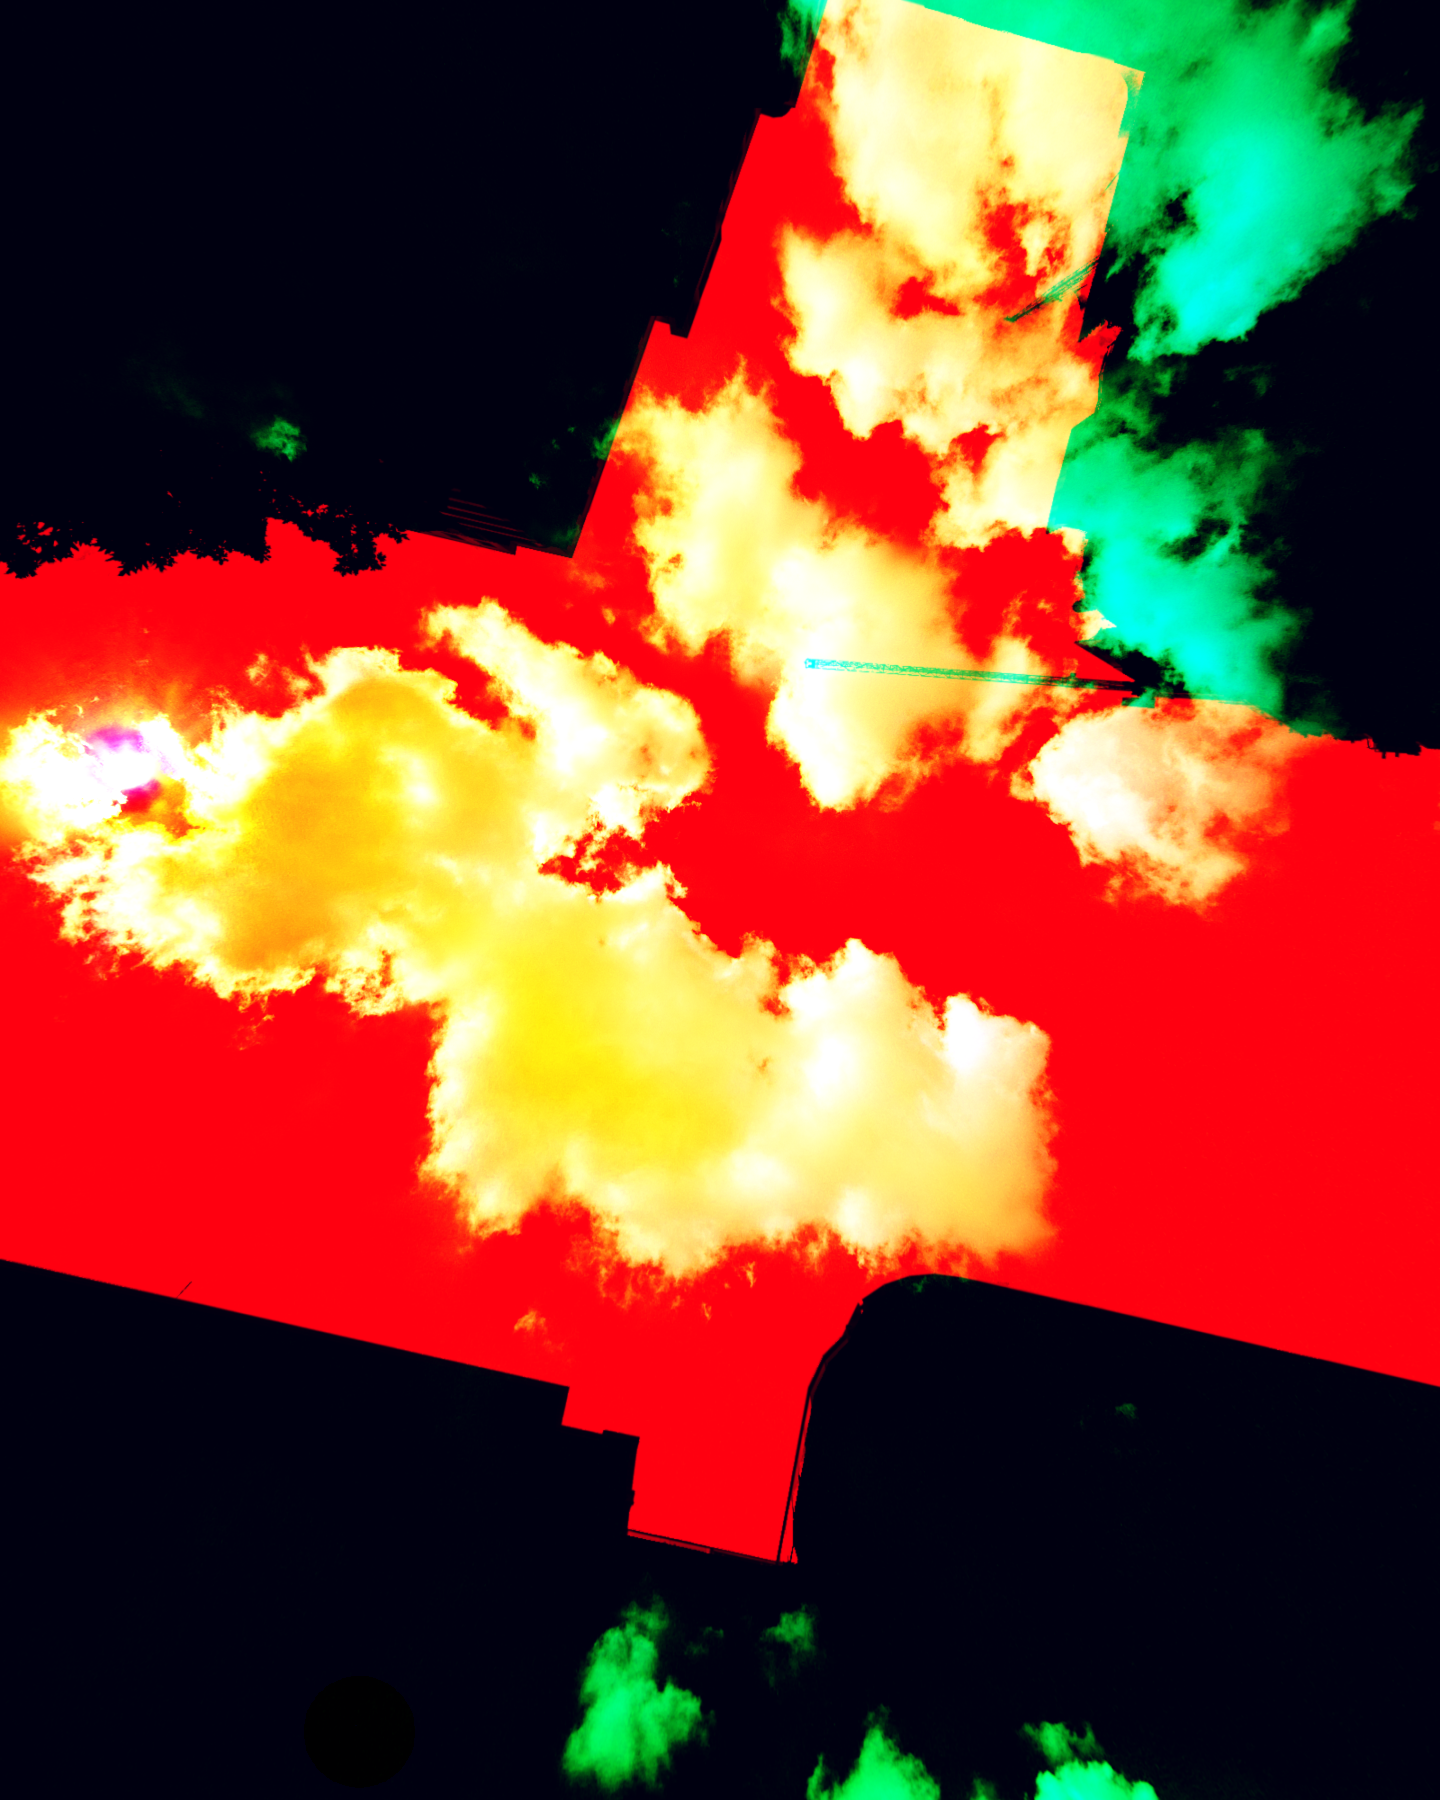
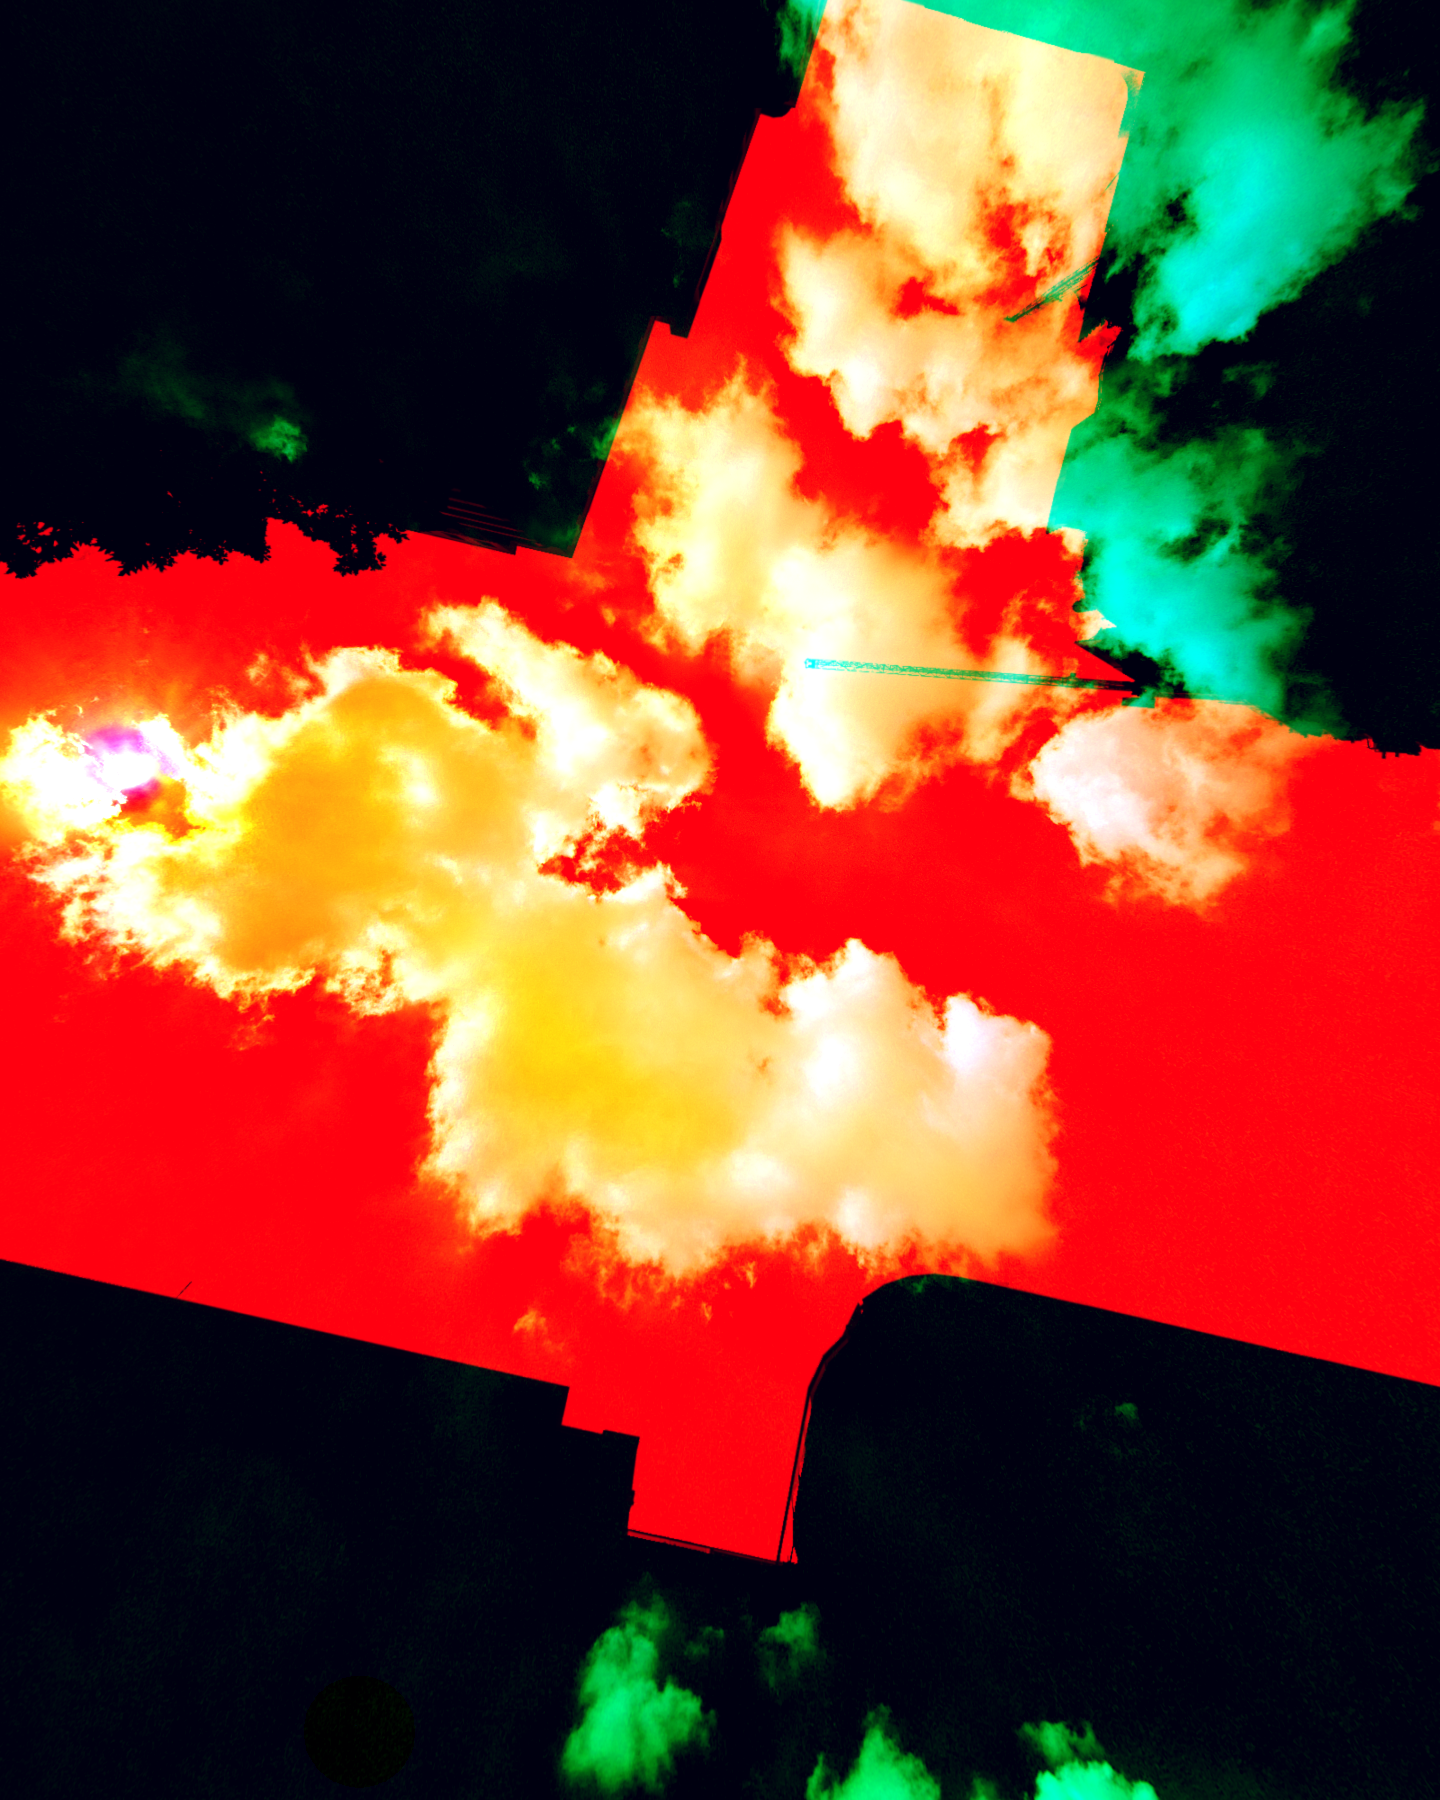
Lab: climb blue-hour round 2
Claude-Session: https://claude.ai/code/session_01RqENhngNCzDFmJWDZueXGV

diff --git a/src/app/lab/blue-hour/blueHourEngine.js b/src/app/lab/blue-hour/blueHourEngine.js
@@ -10,7 +10,7 @@ import { createFilm, FILM_DEFAULTS, FILM_PRESETS } from "../_kit/film";
 // twenty minutes after sunset run: the skylight falls about three and a half
 // stops while the shaft deepens from pale peach-cyan to cobalt, darkest
 // overhead, the clouds lose the sun on their own, faster curve (peach-white
-// to a dim rose-grey under the sky), the camera opens up as a photographer
+// to a deep slate-blue under the sky), the camera opens up as a photographer
 // would, and the lamp trips
 // on its photocell and warms slowly from pink to amber. All of it is
 // developed through _kit/film with its dusk preset easing into night, so the
@@ -105,7 +105,7 @@ uniform float uKnee;        // stops of lift kept linear
 uniform float uShoulder;    // and the most any pixel may reach
 uniform float uCloudKeep;   // how much skylight colour the cloud keeps (0..1)
 uniform float uCloudCeil;   // the brightest a cloud may print, scene units before uExpo
-uniform vec3 uCloudWhite;   // lit cloud, luminance 1: peach-white to rose-grey
+uniform vec3 uCloudWhite;   // lit tops, luminance 1: peach-white to a faint warm grey
 uniform vec3 uCloudPeach;   // afterglow on the undersides, luminance 1
 uniform float uAfter;       // afterglow left, 1 at sunset, 0 by mid-span
 uniform float uFgGain;      // building layer: linear gain (0.42, about 1.25 stops down)
@@ -121,25 +121,14 @@ const float FG_MID = 0.06;  // the plate's median facade luminance
 // aux.b above the light ids holds the cloud's light, 16..255 -> 0..1
 float lightOf(float b){ return clamp((b * 255.0 - 16.0) / 239.0, 0.0, 1.0); }
 // Cloud density for reading form: cover, heavier where the cloud is bright.
-float denAt(vec2 t){ vec4 x = texture(uAux, t); return x.g * (0.5 + 0.5 * lightOf(x.b)); }
-// World view direction of a plate uv.
-vec3 dirAt(vec2 t){
-  vec2 q = t * uTexSize - 0.5 * uTexSize + vec2(0.0, uShift);
-  float r = length(q) + 1e-6;
-  float th = uK * atan(r / (uK * uF));
-  return uRot * vec3(q / r * sin(th), cos(th));
-}
-float facingAt(vec2 t){
-  vec3 d = dirAt(t);
-  return dot(normalize(vec2(d.x, d.z) + 1e-5), uSun);
-}
+float denAt(vec2 t){ vec4 x = textureLod(uAux, t, 1.5); return x.g * (0.5 + 0.5 * lightOf(x.b)); }
 
 void main(){
   vec2 p = gl_FragCoord.xy / uSize;
   vec2 uv = vec2(p.x, 1.0 - p.y);
   vec3 amb = textureLod(uAmb, uv, uLod).rgb;
   vec3 em = textureLod(uEmit, uv, uLod).rgb;
-  vec4 ax = texture(uAux, uv);
+  vec4 ax = textureLod(uAux, uv, 0.0);
   float a = ax.r;
   float cov = ax.g;
   float li = lightOf(ax.b);
@@ -175,40 +164,65 @@ void main(){
   // sky-only panorama through this same view (clouds.py), so the gaps between
   // puffs are clean sky and the zenith deepens by the gradient above alone,
   // with no patch, seam or pole pinch left in the layer to draw spokes.
-  // Sun side on screen: the gradient of the bearing term, in plate uv
-  // (analytic per pixel, so it does not step in 2x2 blocks).
-  vec2 tx = 4.0 / uTexSize;
-  vec2 fd = vec2(facingAt(uv + vec2(tx.x, 0.0)) - facingAt(uv - vec2(tx.x, 0.0)),
-                 facingAt(uv + vec2(0.0, tx.y)) - facingAt(uv - vec2(0.0, tx.y)));
-  vec2 sd = fd / (length(fd) + 1e-6) / uTexSize;
+  // Sun side on screen: a small step of this pixel's ray along the great
+  // circle towards the set sun, projected back onto the plate, in plate uv.
+  // (The gradient of the bearing term it replaces vanishes and flips along
+  // the sun's meridian, which cut a straight lit/lee seam through a puff.)
+  vec3 sunW = normalize(vec3(uSun.x, 0.06, uSun.y));
+  vec3 dc2 = normalize(d + 0.03 * sunW) * uRot;
+  float th2 = acos(clamp(dc2.z, -1.0, 1.0));
+  vec2 q2 = dc2.xy / (length(dc2.xy) + 1e-6) * uK * uF * tan(th2 / uK);
+  vec2 sd = normalize(q2 - q + 1e-6) / uTexSize;
   // A puff's sun-facing flank (light falling off towards the sun) is lit;
   // its lee is in skylight. Read at two broad scales, so a puff shades as a
   // form, not as its texture, and its rim does not outline it.
   float side = 0.5 * (denAt(uv - sd * 24.0) - denAt(uv + sd * 24.0) + denAt(uv - sd * 64.0) - denAt(uv + sd * 64.0));
   float lit = smoothstep(-0.16, 0.16, side);
-  // Cover and light come apart, so a puff's thin rim (low cover) is never
-  // mistaken for its grey, thick middle (full cover, low light).
-  float cw = smoothstep(0.0, 0.8, cov);             // cover
-  float core = li;                                  // sunlit tops and flanks
-  float body = smoothstep(0.6, 0.95, cov);          // inside, past the thin rim
-  // The cloud's light is two parts. Skylight: the shaft's own colour and
-  // level scattered on, less through the thick middles, so the shadows stay
-  // a cool, skylight blue-grey instead of a cut-out hole of sky. Sun: a lift
-  // in stops on the tops, more on the lit side, rolled into a soft shoulder
-  // past uKnee; peach while the afterglow lasts (strongest towards the sun's
-  // side), then a warm white. The sun's part leaves on its own, faster curve
-  // (uSunK, solved per frame so a lit core follows CLOUD_STOPS), so by blue
-  // hour the sky holds the light and the cloud sits dim against it, a dusty
-  // rose-grey, bluer in the lee.
-  float shade = exp2(-0.9 * (1.0 - core) * body * (1.0 - 0.4 * lit));
+  // Alpha. aux.g is the cloud's blue/red log-ratio below the local clear sky,
+  // linear (clouds.py no longer thresholds it), so cover is feathered here
+  // across most of its range: a puff thins into the sky through its wisps
+  // instead of stopping on a contour. A share of the ratio a few texels wide
+  // gives the edge the soft fall-off of a volume rather than a cut line.
+  float covW = textureLod(uAux, uv, 2.5).g;
+  float covM = textureLod(uAux, uv, 4.5).g;
+  float cw = smoothstep(0.06, 0.9, mix(cov, covW, 0.32));
+  // The buildings occlude the cloud, not the sky: alpha goes to zero a few
+  // texels inside the matte's edge (its eroded, blurred self), so no puff
+  // shows through balcony gaps or fringes a silhouette; the clear sky the
+  // matte already blends against the towers is what meets them.
+  float am = textureLod(uAux, uv, 1.5).r;
+  cw *= smoothstep(0.6, 1.0, min(a, am));
+  // Light and thickness come from the broad field, not from the texel, so a
+  // puff's colour is one function across its edge and fading alpha can only
+  // take it towards the sky, never paint a lighter rim around a darker body.
+  float liW = lightOf(textureLod(uAux, uv, 2.0).b);
+  float core = mix(li, liW, 0.5);                   // sunlit tops and flanks
+  float body = smoothstep(0.35, 0.9, covM);         // deep inside a puff
+  // Two parts. Skylight: the shaft's own colour scattered on. A cloud's lee
+  // and thick middles are lit by the blue sky around them, so their colour is
+  // a step from neutral towards the local sky (about half way where the
+  // cloud is dim, less on the lit tops), never a grey or lavender of its own.
+  // Sun: a lift in stops on the tops, more on the lit side, peach while the
+  // afterglow lasts (strongest towards the sun's side), then only a faint
+  // warm white. It leaves on its own, faster curve (uSunK), so by blue hour
+  // the cloud sits as deep slate-blue under the cobalt with a warm breath on
+  // its tops.
+  float sunny = clamp(core * (0.55 + 0.45 * lit), 0.0, 1.0);
+  float shade = exp2(-0.95 * (1.0 - sunny) * (0.35 + 0.65 * body));
   float glowK = clamp(uAfter * (0.45 + 0.55 * facing), 0.0, 1.0);
-  vec3 skyC = mix(col, uCloudWhite, (0.3 + 0.3 * lit + 0.25 * core) * (1.0 - uCloudKeep));
-  // the afterglow low in the west scatters peach onto the lit parts too
-  skyC = mix(skyC, uCloudPeach, glowK * 0.62 * (0.3 + 0.7 * core)) * shade;
-  float up = uCloudGain * (0.18 + 0.62 * core) * (0.65 + 0.5 * lit);
+  float topK = smoothstep(0.15, 0.95, sunny);         // the lit tops only
+  vec3 skyTint = mix(vec3(1.0), col, mix(0.68, 0.15, sunny) * (1.0 - 0.25 * uCloudKeep) + uCloudKeep);
+  vec3 skyC = skyTint;
+  // only the lit tops take the warm white and the afterglow's peach
+  vec3 warm = mix(uCloudWhite, uCloudPeach, glowK * 0.62);
+  skyC = mix(skyC, warm, topK * (0.2 + 0.4 * uAfter)) * shade;
+  float up = uCloudGain * (0.08 + 0.72 * core) * (0.6 + 0.5 * lit);
   float room = uShoulder - uKnee;
   up = up < uKnee ? up : uKnee + room * (1.0 - exp(-(up - uKnee) / room));
-  vec3 sunC = mix(uCloudWhite, uCloudPeach, glowK * (0.9 - 0.35 * core)) * (exp2(up) - 1.0) * uSunK;
+  // what of the sun reaches the lee arrives scattered through the puff, so
+  // it carries the sky's colour there; only the tops see it warm
+  vec3 sunCol = mix(uCloudWhite, uCloudPeach, glowK * (0.9 - 0.35 * core));
+  vec3 sunC = mix(skyTint, sunCol, 0.3 + 0.7 * topK) * (exp2(up) - 1.0) * uSunK;
   vec3 cl = (skyC + sunC) * uCloudSkyK * lum;
   // No cloud may print past the film's white: the brightest channel rolls
   // into uCloudCeil (scene units, before the camera's exposure), so the
@@ -217,7 +231,9 @@ void main(){
   float c0 = 0.62 * uCloudCeil;
   float pk2 = pk < c0 ? pk : c0 + (uCloudCeil - c0) * (1.0 - exp(-(pk - c0) / (uCloudCeil - c0)));
   cl *= pk2 / max(pk, 1e-6);
-  vec3 sky = mix(col * lum, cl, cw);
+  // premultiplied over: the cloud's radiance times its alpha, plus the sky
+  // it lets through
+  vec3 sky = col * lum * (1.0 - cw) + cl * cw;
 
   // The city is the frame, not the subject: about a stop down and a harder
   // log contrast about the plate's mid, so towers, crane and brick read as
@@ -345,7 +361,7 @@ const smooth = (a, b, x) => {
 const SKY0 = { zen: lin("#5b9ddc"), mid: lin("#8bbae6"), horSun: lin("#f0caa0"), horAnti: lin("#b7d0e6"), lum: 0.72, sat: 1.25, glow: 0.55, zenDeep: 0.6 };
 const SKY1 = { zen: lin("#0b5592"), mid: lin("#0f5aa6"), horSun: lin("#4a8cc2"), horAnti: lin("#1460a8"), lum: 0.32, sat: 0.95, glow: 1.4, zenDeep: 1.5 };
 const CLOUD_WHITE0 = lin("#f4e9df"); // peach-white, the sun still on the tops
-const CLOUD_WHITE1 = lin("#bcaeb9"); // dusty rose-grey, skylight only
+const CLOUD_WHITE1 = lin("#cfb8ae"); // a faint warm grey: what sun is left on the tops
 const CLOUD_PEACH = lin("#ffb98f");
 const CLOUD_GAIN = 2.2; // stops of sun on a fully lit top, fixed: the time lives in CLOUD_STOPS
 // The cloud's own curve. As printed (after the camera opens up) the shaft
@@ -433,6 +449,10 @@ export async function createBlueHour(host, { embedded = false } = {}) {
   const ambTex = decodeTo(ambImg, [LO, HI], false);
   const emitTex = decodeTo(emitImg, [ELO, EHI], true);
   const auxTex = upload(gl, auxImg, gl.LINEAR);
+  // mipmapped, so the cloud's feather, broad light and the matte's erosion
+  // are single taps (light ids are read with texelFetch at level 0)
+  gl.generateMipmap(gl.TEXTURE_2D);
+  gl.texParameteri(gl.TEXTURE_2D, gl.TEXTURE_MIN_FILTER, gl.LINEAR_MIPMAP_LINEAR);
   gl.deleteProgram(decode.p);
   const texW = auxImg.width;
   const texH = auxImg.height;

diff --git a/tools/depth/bakes/blue-hour/clouds.py b/tools/depth/bakes/blue-hour/clouds.py
@@ -60,8 +60,9 @@ for _ in range(2):
     clear = b > bs - 0.25
 bs = mblur(b, clear, s0)
 S = mblur(L, clear, s0)
-c = np.clip((bs - b) / np.maximum(bs - 0.25, 0.3), 0, 1)
-c = c * c * (3 - 2 * c)
+# the log-ratio itself, linear: no threshold here, the shader feathers it
+c_lin = np.clip((bs - b) / np.maximum(bs - 0.25, 0.3), 0, 1)
+c = c_lin * c_lin * (3 - 2 * c_lin)
 r = np.log2(np.maximum(L, 1e-6) / np.maximum(S, 1e-6))
 inc = sky & (c > 0.5)
 lo, hi = np.percentile(r[inc], [4, 97])
@@ -73,7 +74,7 @@ print('light in cloud p10/50/90', np.percentile(s[inc], [10, 50, 90]).round(2))
 
 rng = np.random.default_rng(11)
 tp = lambda: rng.random(c.shape) + rng.random(c.shape) - 1.0
-g8 = np.clip(np.round(c * 255 + tp() * 0.5), 0, 255)
+g8 = np.clip(np.round(c_lin * 255 + tp() * 0.5), 0, 255)
 b8 = np.where(ids > 0, ids, np.clip(np.round(16 + s * 239 + tp() * 0.5), 16, 255))
 rgb = np.stack([a[..., 0], g8, b8], -1).astype(np.uint8)
 cv2.imwrite(aux_out, rgb[..., ::-1], [cv2.IMWRITE_PNG_COMPRESSION, 9])
